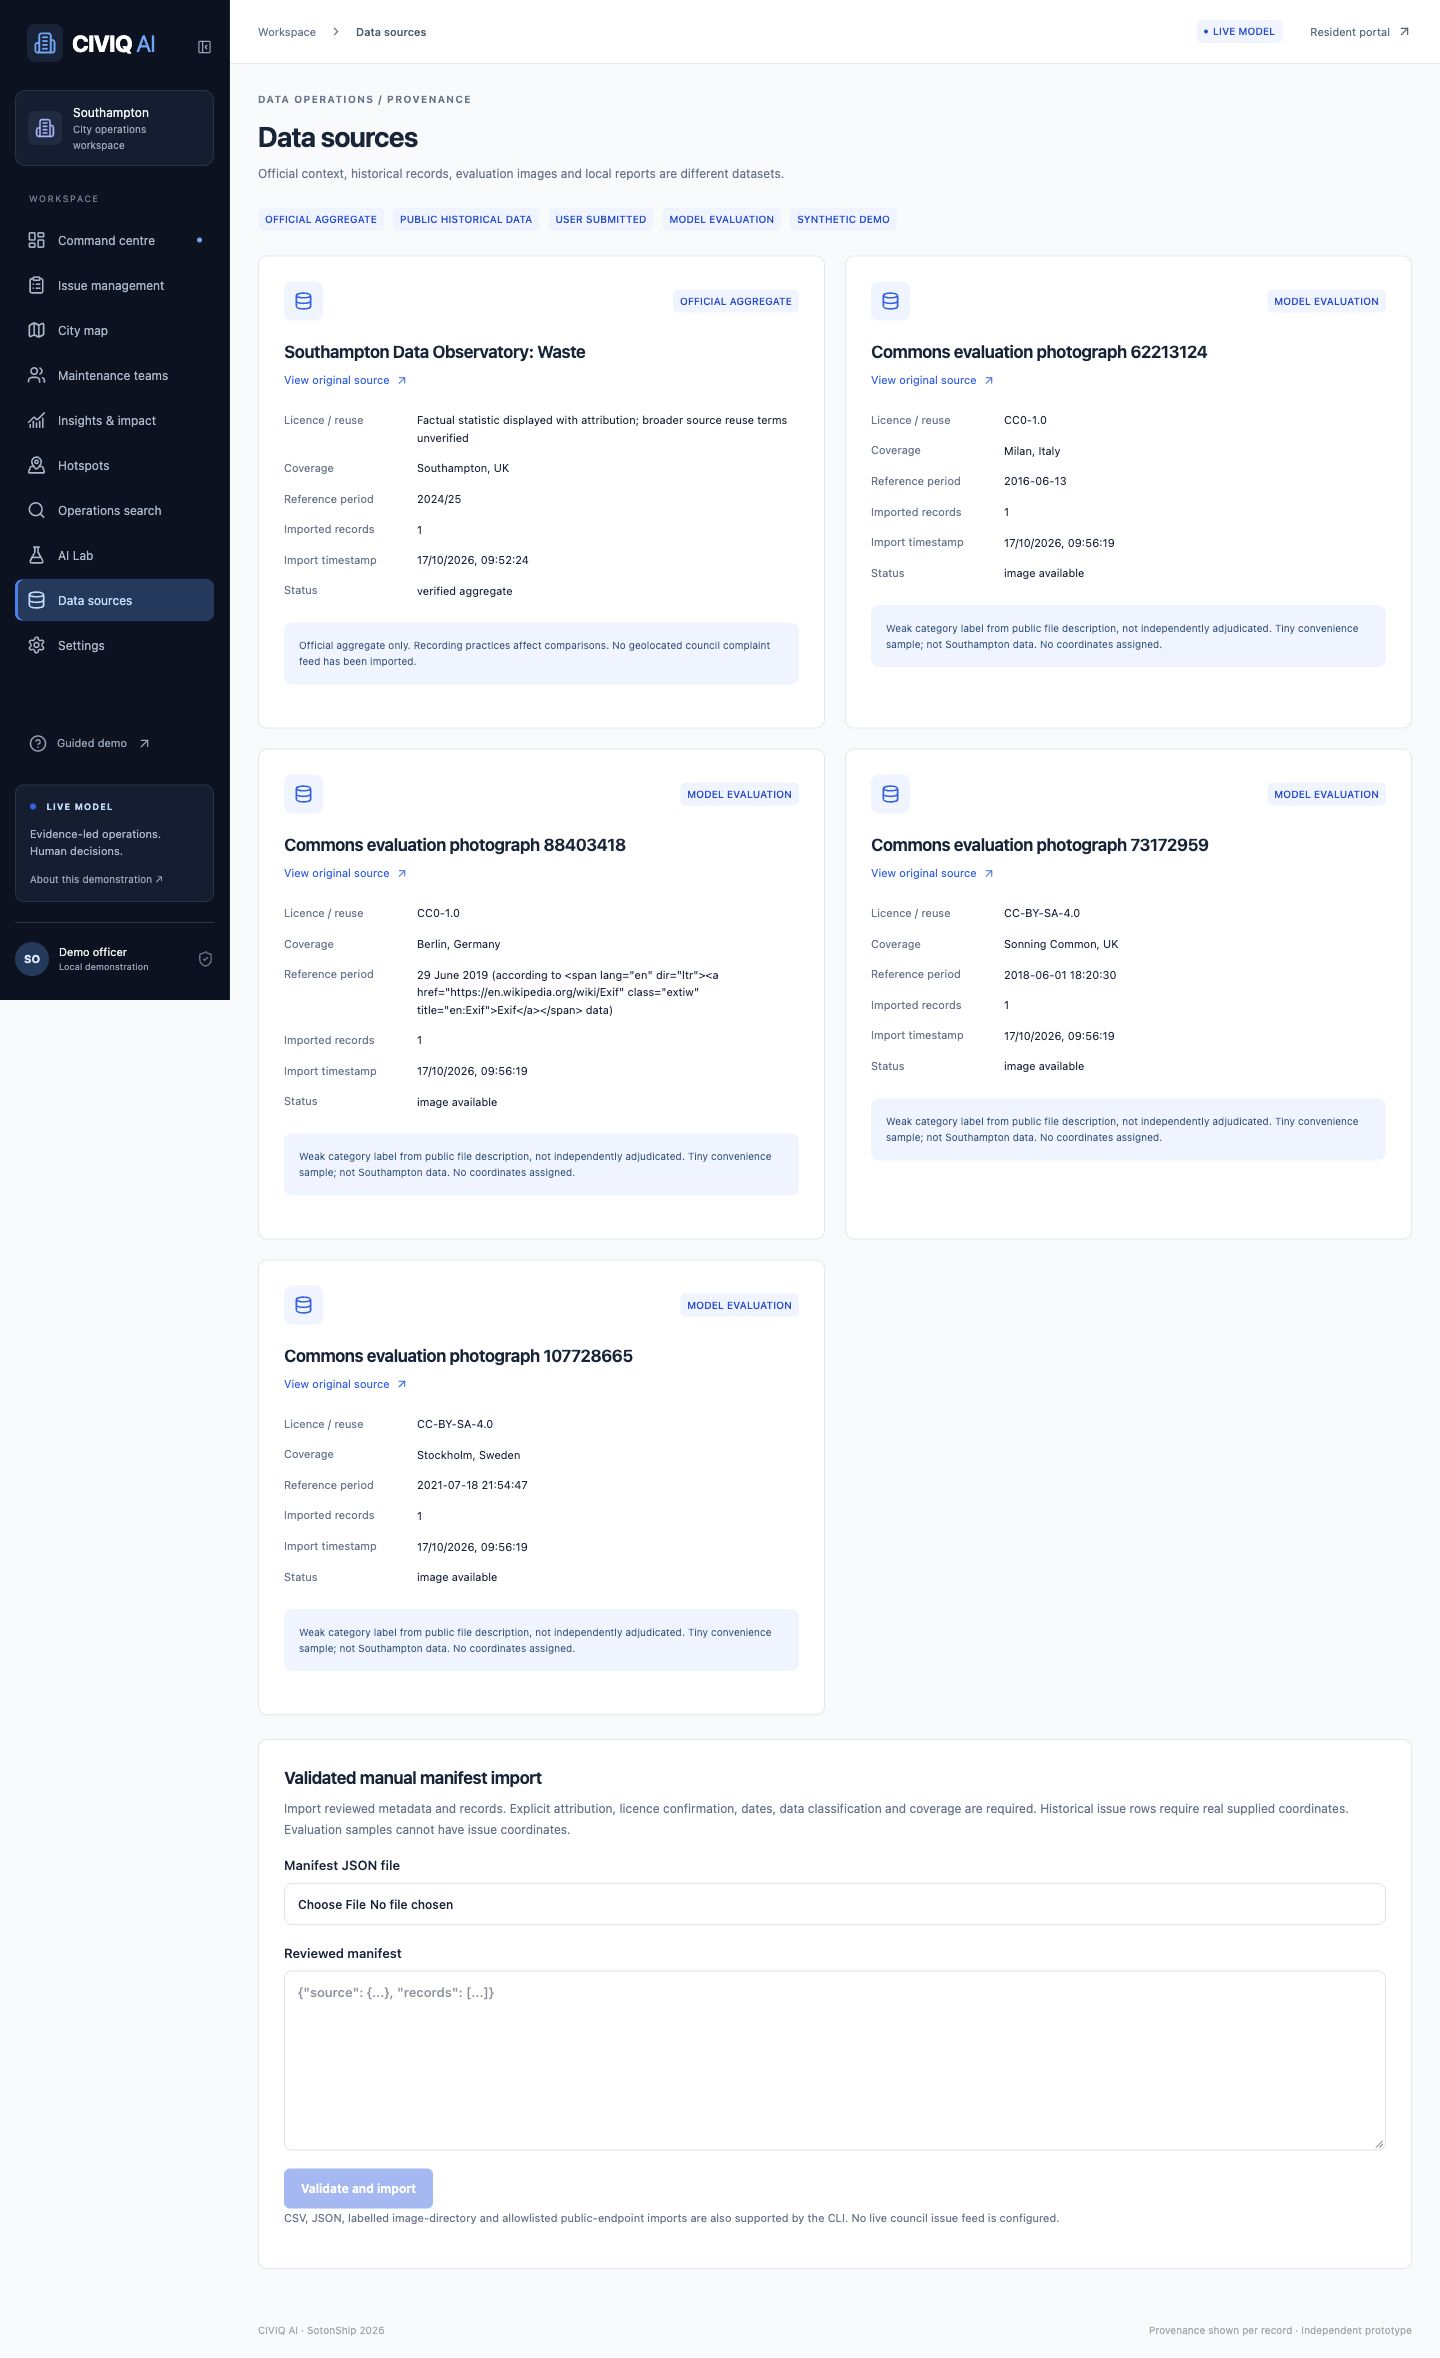
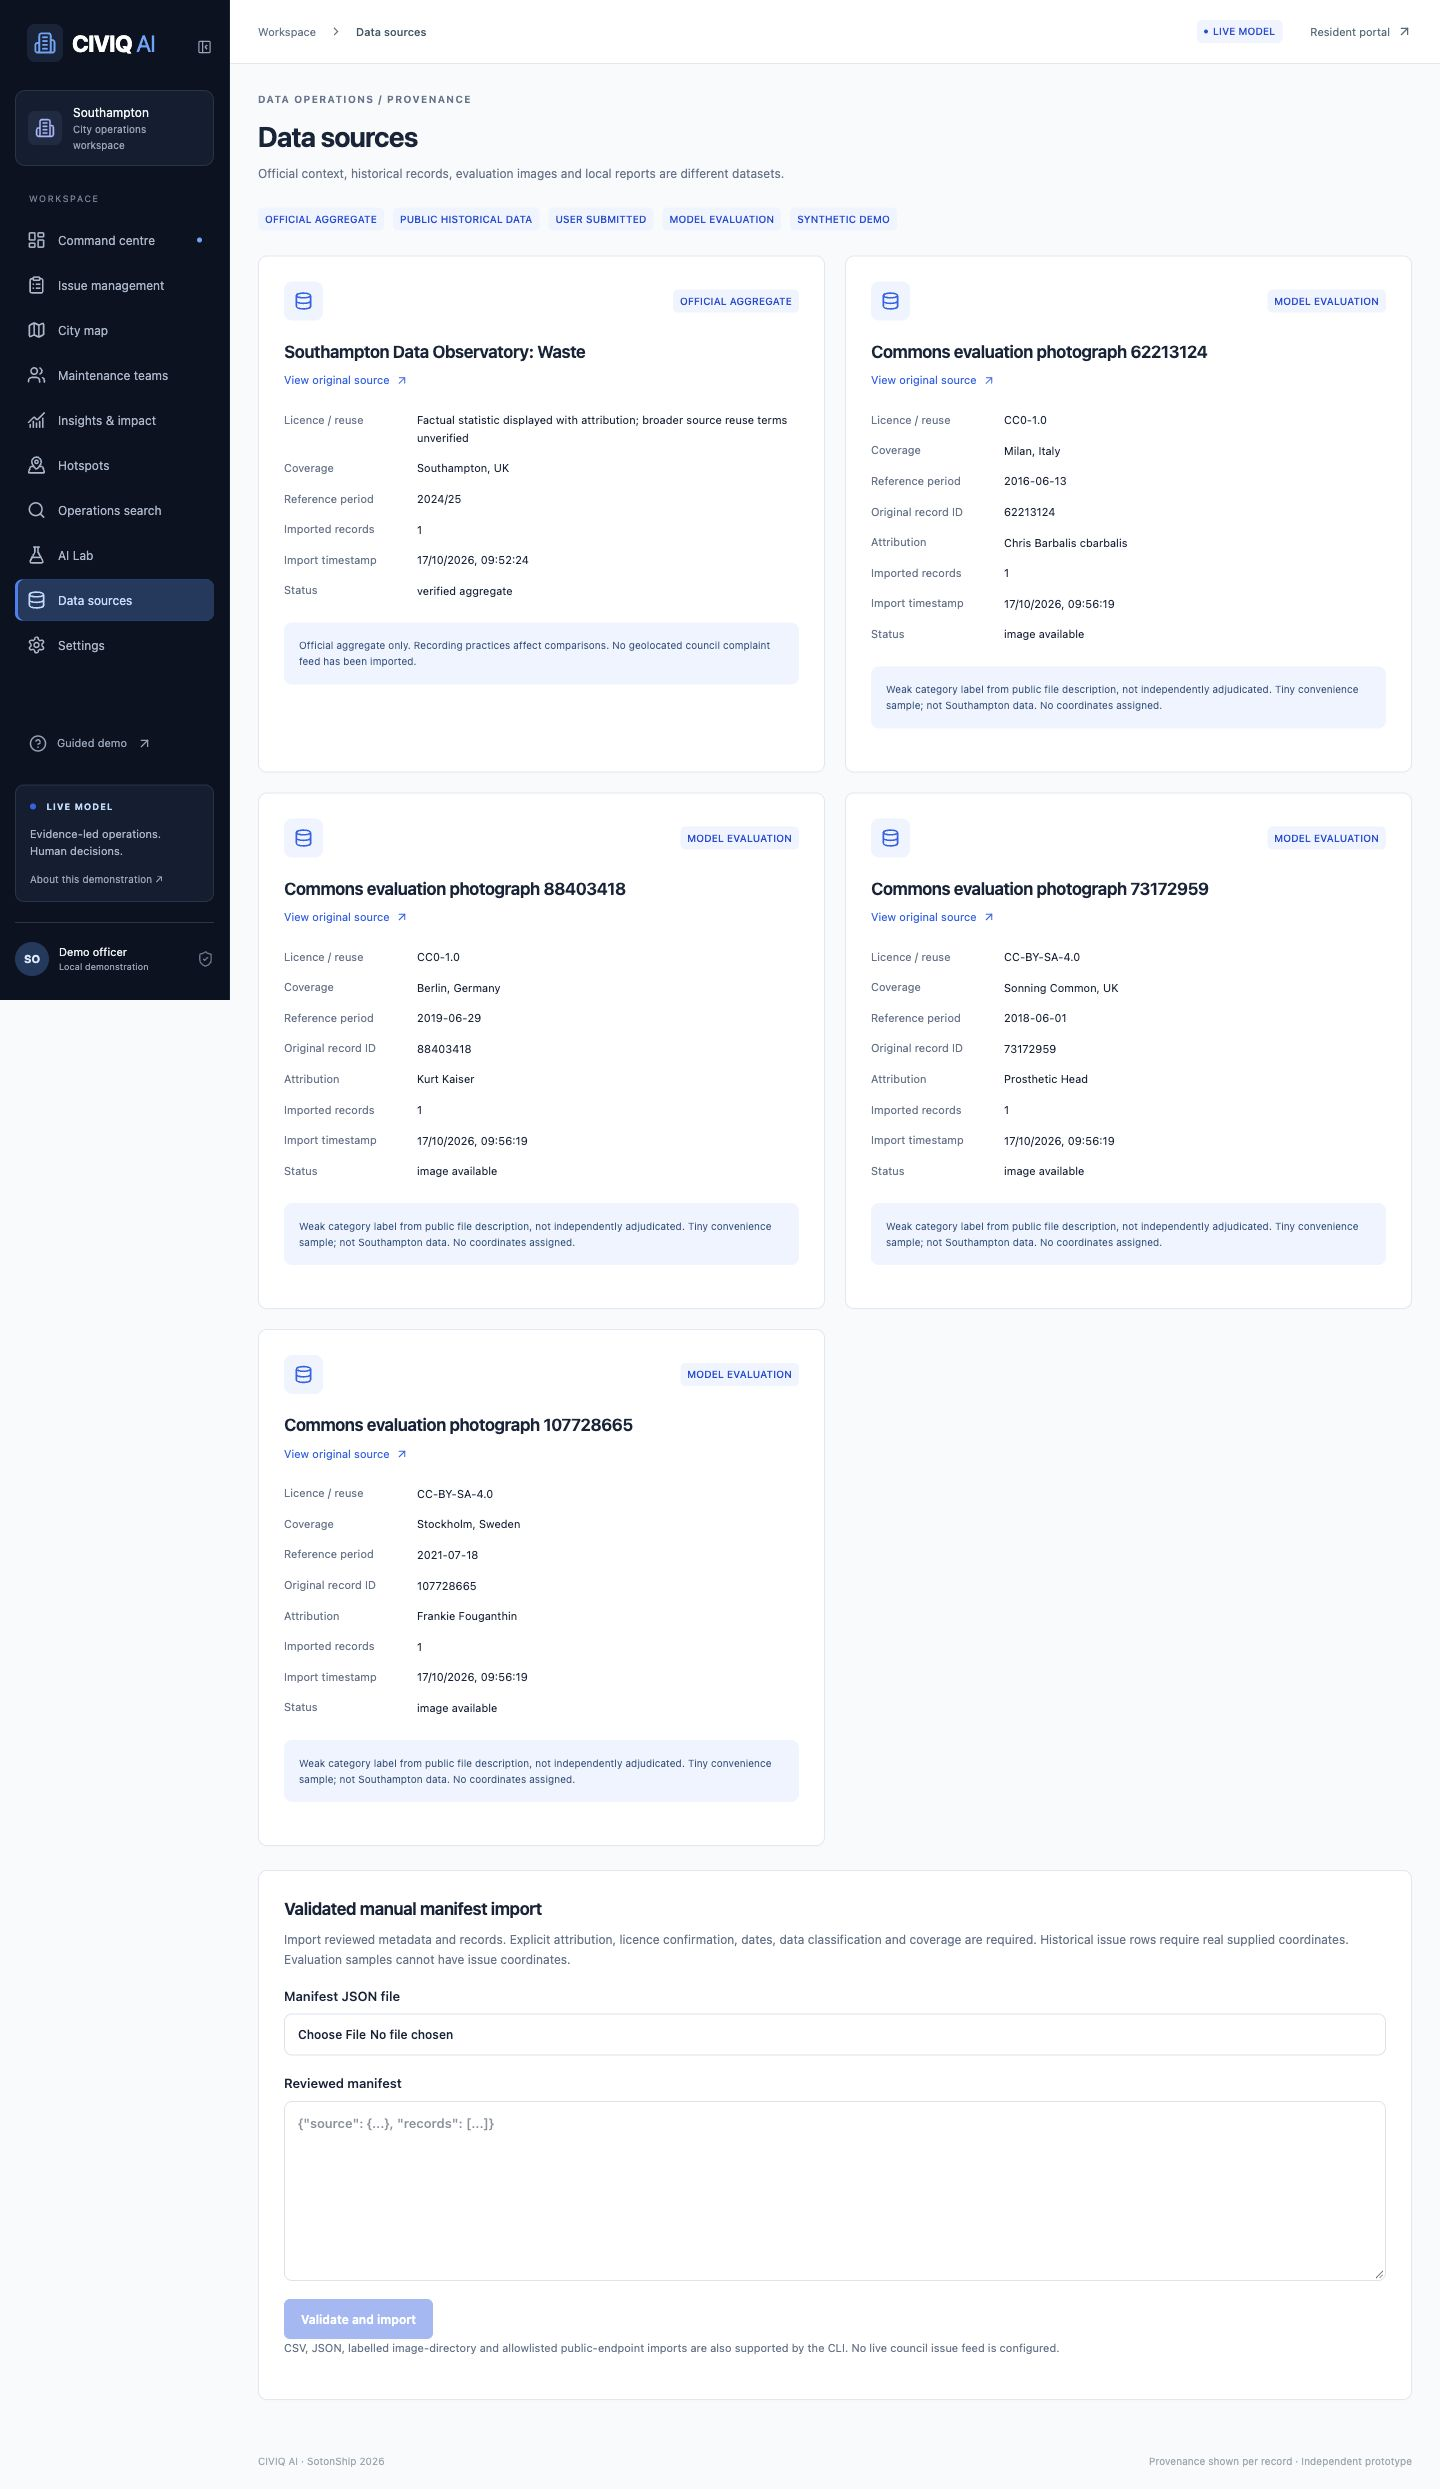
Harden source-aware triage and imports; verify offline model workflow

diff --git a/tests/v2-integration.test.ts b/tests/v2-integration.test.ts
@@ -127,3 +127,45 @@ it("resets only disposable demo issues even when they have analysis rows", async
   );
   expect(await db.issue.findUnique({ where: { id: "demo-2" } })).not.toBeNull();
 });
+
+it("preserves original IDs with slashes while creating route-safe historical issue IDs", async () => {
+  const source = {
+    id: "historical-route-test",
+    name: "Isolated historical test",
+    url: "https://example.org/fixture",
+    licence: "CC0-1.0",
+    licenceReviewed: true,
+    attribution: "Test fixture",
+    coverage: "Southampton test boundary",
+    referenceDate: "2026-01-01T00:00:00Z",
+    dataType: "PUBLIC_HISTORICAL",
+    limitations:
+      "Isolated test fixture; never imported into the working database.",
+  };
+  const manifest = {
+    source,
+    records: [
+      {
+        id: "ward/asset?001",
+        referenceDate: source.referenceDate,
+        categoryId: "pothole",
+        description: "Historical test hole",
+        location: "Test location",
+        lat: 50.927,
+        lng: -1.395,
+      },
+    ],
+  };
+  await importManifest(manifest);
+  await importManifest(manifest);
+  const imported = await db.issue.findMany({ where: { sourceId: source.id } });
+  expect(imported).toHaveLength(1);
+  expect(imported[0].id).toMatch(/^import-[a-f0-9]{32}$/);
+  expect(imported[0].originalRecordId).toBe("ward/asset?001");
+  const scored = await service.issueScore({
+    ...imported[0],
+    reports: [{ id: "one" }],
+    assessments: [{ confidence: 0 }],
+  });
+  expect(scored.recurrence).toBe(0);
+});

diff --git a/src/lib/importer.ts b/src/lib/importer.ts
@@ -1,4 +1,5 @@
 import { z } from "zod";
+import { createHash } from "node:crypto";
 import { db } from "./db";
 import { dataTypes } from "./provenance";
 const sourceSchema = z.object({
@@ -148,10 +149,14 @@ export async function importManifest(raw: unknown) {
       )
         continue;
       if (source.dataType === "PUBLIC_HISTORICAL") {
+        const key = createHash("sha256")
+          .update(JSON.stringify([source.id, r.id]))
+          .digest("hex")
+          .slice(0, 32);
         await tx.category.findUniqueOrThrow({ where: { id: r.categoryId } });
         await tx.issue.create({
           data: {
-            id: `import-${source.id}-${r.id}`,
+            id: `import-${key}`,
             title: r.description!.slice(0, 90),
             description: r.description!,
             categoryId: r.categoryId!,
@@ -169,7 +174,7 @@ export async function importManifest(raw: unknown) {
             createdAt: new Date(r.referenceDate),
             reports: {
               create: {
-                reference: `HIST-${source.id}-${r.id}`,
+                reference: `HIST-${key.toUpperCase()}`,
                 description: r.description!,
                 lat: r.lat!,
                 lng: r.lng!,

diff --git a/src/lib/service.ts b/src/lib/service.ts
@@ -148,13 +148,21 @@ export async function issueScore(
     createdAt: Date;
     context: number;
     accessibility?: string;
+    dataType?: string;
+    synthetic?: boolean;
     reports: { id: string }[];
     assessments: { confidence: number }[];
   },
   weights = defaultWeights,
 ) {
   const all = await db.issue.findMany({
-    where: { categoryId: issue.categoryId, id: { not: issue.id } },
+    where: {
+      categoryId: issue.categoryId,
+      id: { not: issue.id },
+      dataType: issue.synthetic
+        ? "SYNTHETIC_DEMO"
+        : issue.dataType || "USER_SUBMITTED",
+    },
   });
   const recurrence = all.filter((i) => haversine(issue, i) < 75).length;
   return {
@@ -173,7 +181,7 @@ export async function issueScore(
         reports: issue.reports.length,
         recurrence,
         context: issue.context,
-        evidenceConfidence: issue.assessments[0]?.confidence || 0.35,
+        evidenceConfidence: issue.assessments[0]?.confidence ?? 0,
       },
       weights,
     ),

diff --git a/src/components/resident.tsx b/src/components/resident.tsx
@@ -68,7 +68,14 @@ export function Report({ meta }: { meta: Meta }) {
         score: number;
         distance: number;
         explanation: string;
-        issue: { title: string; location: string; lat: number; lng: number };
+        issue: {
+          title: string;
+          location: string;
+          lat: number;
+          lng: number;
+          synthetic?: boolean;
+          dataType?: string;
+        };
       }[];
     } | null>(null),
     [result, setResult] = useState<{
@@ -420,6 +427,7 @@ export function Report({ meta }: { meta: Meta }) {
                     />
                     <span>
                       <strong>{m.issue.title}</strong>
+                      <DataBadge record={m.issue} />
                       <small>
                         {m.issue.location} · match score {m.score.toFixed(2)} /
                         1

diff --git a/e2e/workflow.spec.ts b/e2e/workflow.spec.ts
@@ -255,7 +255,14 @@ test("offline local model preserves manual reporting and source-aware database s
   page,
   request,
 }) => {
-  await request.post("/api/settings", { data: { provider: "local" } });
+  const settings = { weights: [35, 20, 15, 10, 10, 10], distance: 75 };
+  expect(
+    (
+      await request.post("/api/settings", {
+        data: { ...settings, provider: "local" },
+      })
+    ).ok(),
+  ).toBe(true);
   try {
     const uploaded = await request.post("/api/upload", {
       multipart: {
@@ -315,6 +322,8 @@ test("offline local model preserves manual reporting and source-aware database s
       fullPage: true,
     });
   } finally {
-    await request.post("/api/settings", { data: { provider: "demo" } });
+    await request.post("/api/settings", {
+      data: { ...settings, provider: "demo" },
+    });
   }
 });

diff --git a/src/lib/rules.ts b/src/lib/rules.ts
@@ -39,10 +39,10 @@ export const transitions: Record<string, string[]> = {
 };
 export const defaultWeights = [35, 20, 15, 10, 10, 10];
 export const weightNames = [
-  "Visible severity",
+  "Reported severity",
   "Public impact / accessibility",
   "Recurrence and age",
-  "Independent confirmations",
+  "Additional submissions",
   "Location context",
   "Evidence confidence",
 ];

diff --git a/docs/V2-VERIFICATION.md b/docs/V2-VERIFICATION.md
@@ -5,10 +5,10 @@ Executed on 17 October 2026 against the existing repository. Baseline and preser
 ## Local execution
 
 - ESLint: passed with zero warnings. Strict TypeScript: passed.
-- Vitest: 42 tests across four files passed, including the original 26. Disposable database integration tests verify idempotent imports, no issue creation for evaluation images, manual report preservation on inference failure, accessibility persistence and safe demo reset with analysis rows.
+- Vitest: 43 tests across four files passed, including the original 26. Disposable database integration tests verify idempotent imports, no issue creation for evaluation images, manual report preservation on inference failure, accessibility persistence and safe demo reset with analysis rows. Historical original IDs containing slashes remain preserved while generated issue/reference IDs remain safe for routing. Priority recurrence counts stay within the issue’s provenance group, and unavailable model confidence contributes zero instead of an invented value.
 - Python pytest: six tests passed, covering authentication, actual unloaded state, unavailable inference, bounded batches, invalid/oversized images and abstention logic. One upstream Starlette/httpx deprecation warning remains.
 - Production Next.js webpack build: passed. Production staff guard was tested: workspace required a staff token, then unlocked with an ephemeral local verification token.
-- Additive migrations applied to the existing SQLite database. No existing migration was replaced; original record IDs and media retained. Fresh disposable migration/seed databases passed in integration tests.
+- Additive migrations applied to the existing SQLite database. No existing migration was replaced; original record IDs and media retained. Fresh disposable migration/seed databases passed in integration tests. The final audit compared all original column values for 16 issues, 19 reports, 22 photographs, 41 events, six assignments, three repair records, five matches and 16 assessments: every original row is unchanged. Both original uploaded-file SHA-256 hashes match the checkpoint. New verification records are additive; foreign-key checks pass.
 
 ## Executed genuine models
 
@@ -20,11 +20,15 @@ Actual MiniLM embedding check: related pothole/accessibility descriptions had co
 
 ## Browser workflows and captures
 
-The local standalone Playwright Chromium launcher is blocked by the host's macOS MachPort sandbox. The running application was therefore additionally exercised through Codex's in-app browser using its Playwright locator API and genuine screenshot API. Full headless Chromium workflows run in the repository's GitHub Actions CI; screenshots are uploaded as the playwright-evidence artifact.
+The local standalone Playwright Chromium launcher is blocked by the host's macOS MachPort sandbox. The running application was therefore additionally exercised through Codex's in-app browser using its Playwright locator API and genuine screenshot API. Full headless Chromium workflows run in the repository's GitHub Actions CI; screenshots are uploaded as the playwright-evidence artifact. Two direct Chromium captures downloaded from CI are also saved as `docs/screenshots/v2-playwright-dashboard.png` and `v2-playwright-data-sources.png`; these show the explicitly separate demo mode.
 
 Executed locally against the production build: licensed AI Lab classification; five-step report upload/location/details/accessibility; actual model abstention on fictional illustration; manual correction; genuine MiniLM duplicate candidates; separate report submission; council assignment; legal status transitions; repair upload; actual image comparison; manual closure; public tracking and reopening. The added report is explicitly labelled fictional in its description, reference CIV-57C64A2881. It is an actual app submission, not a genuine council incident.
 
 The map/inspector selection and sidebar collapse were exercised. A Leaflet error occurred during development hot reload after rebuilding; the fresh production build rendered the hotspot and dashboard maps correctly. Mobile report and dashboard layouts were checked at 390×844 with document width 390 (no horizontal overflow). Genuine captures are under `docs/screenshots/v2-*.png`. Existing V1 screenshots remain for historical evidence.
+
+## Additional import execution
+
+The actual CSV CLI ran against a disposable freshly migrated database: a numeric aggregate record imported once; a second run inserted zero; seeded issue count remained unchanged. The disposable database was removed afterwards.
 
 ## Limits
 

diff --git a/README.md b/README.md
@@ -101,7 +101,7 @@ npm run data:import -- --manifest source.json --images /path/to/category-directo
 npm run data:import -- --manifest source.json --url https://data.southampton.gov.uk/example.json
 ```
 
-The examples describe supported command shapes; the example endpoint is not a configured feed. Directory imports are evaluation-only and receive no coordinates. Public endpoints must match the code's HTTPS allowlist, do not follow redirects and require supplied reviewed metadata. The Data Sources page also accepts a reviewed manifest file or pasted JSON. The importer requires an approved licence identifier and explicit `licenceReviewed: true`; an operator remains responsible for reviewing the actual source terms. Aggregate/evaluation imports cannot acquire issue coordinates. Historical issues require supplied Southampton coordinates, description/category/location and reference dates; they remain labelled historical.
+The examples describe supported command shapes; the example endpoint is not a configured feed. Directory imports register evaluation metadata/relative paths only and receive no coordinates; they do not automatically run evaluation. The included evaluation runner and AI Lab sample buttons target the declared Commons manifest. Public endpoints must match the code's HTTPS allowlist, do not follow redirects and require supplied reviewed metadata. The Data Sources page also accepts a reviewed manifest file or pasted JSON. The importer requires an approved licence identifier and explicit `licenceReviewed: true`; an operator remains responsible for reviewing the actual source terms. Aggregate/evaluation imports cannot acquire issue coordinates. Historical issues require supplied Southampton coordinates, description/category/location and reference dates; they remain labelled historical.
 
 ## Verification and screenshots
 
